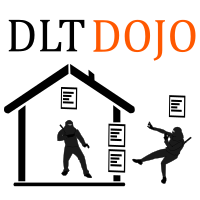
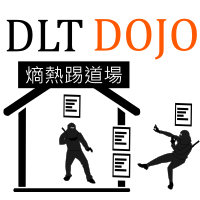
updated y12docker/dltdojo-ethgo:1.5.5.a0

Changed region(s): [[0.0, 0.3, 1.0, 0.96], [0.03, 0.09, 0.99, 0.3]]

diff --git a/dockerfiles/ethereumgo/index.js b/dockerfiles/ethereumgo/index.js
@@ -31,21 +31,25 @@ function rpcPost(method, params) {
     });
 }
 
-function getInfo() {
+function getInfo(debug) {
     var coinbase = web3.eth.coinbase;
     var balance = web3.eth.getBalance(coinbase)
         // var value = web3.fromWei('21000000000000', 'finney');
         // https://github.com/ethereum/web3.js/issues/388
         // https://github.com/ethereum/web3.js/blob/master/lib/web3/methods/personal.js
-    return {
-        netPeerCount: web3.net.peerCount,
+    var r = {
         ethGetBalance: balance,
         ethCoinbase: coinbase,
-        ethBlockNumber: web3.eth.blockNumber,
-        ethMining: web3.eth.mining,
         ethDefaultAccount: web3.eth.defaultAccount,
-        ether: web3.fromWei(balance, 'ether')
+        balanceEther: web3.fromWei(balance, 'ether')
     }
+    if(debug){
+        r.ethBlockNumber= web3.eth.blockNumber
+        r.netPeerCount= web3.net.peerCount
+        r.ethMining= web3.eth.mining
+        r.ethGetBlockPending= web3.eth.getBlock("pending")
+    }
+    return r
 }
 
 function recoverKeyFromAddress(datadir, address, password) {
@@ -55,20 +59,13 @@ function recoverKeyFromAddress(datadir, address, password) {
     var privateKey = keythereum.recover(password, keyObject)
     return {
         ko: keyObject,
-        key: privateKey
+        key: privateKey,
+        keyhex: privateKey.toString('hex')
     }
 }
 
 function cout(obj) {
     console.log(_.isString(obj) ? obj : JSON.stringify(obj, null, ' '))
-}
-
-function logResponse(err, response) {
-    if (err) {
-        console.log('err: ', JSON.stringify(err))
-    } else {
-        console.log('response: ', JSON.stringify(response))
-    }
 }
 
 require('yargs')
@@ -77,14 +74,25 @@ require('yargs')
         desc: 'json rpc interface',
         handler: (argv) => {
             //rpcPost(argv.method, argv.params)
-            clientRpc.request(argv.method, argv.params, logResponse);
+            clientRpc.request(argv.method, argv.params, function(err, resp) {
+                err ? console.log(JSON.stringify(err)) : console.log(JSON.stringify(resp))
+            });
         }
     })
     .command({
         command: 'info',
         desc: 'info',
         handler: (argv) => {
-            cout(getInfo())
+            cout(getInfo(argv.debug))
+        }
+    })
+    .command({
+        command: 'keyrecover <address> <password> [datadir]',
+        desc: 'keyrecover',
+        builder: (yargs) => yargs.default('datadir', '/root/.ethereum/devchain'),
+        handler: (argv) => {
+            var r = recoverKeyFromAddress(argv.datadir, argv.address, argv.password)
+            argv.debug ? cout(r) : console.log(r.keyhex)
         }
     })
     .demandCommand(1)

diff --git a/index.js b/index.js
@@ -98,6 +98,7 @@ EthereumGo.prototype.buildDojo = function(path, name, peers) {
 
 EthereumGo.prototype.buildDojoPeer = function() {
     var name = this.name
+    var imagename = 'y12docker/dltdojo-ethgo:1.5.5.a0'
     // bootnodes url IP address only. DNS name(evp0) are not allowed.
     // "tail -f /dev/null" keep evp running for all time
     var rpcopts = '--rpc --rpccorsdomain="*" --rpcaddr="0.0.0.0" --rpcapi "miner,admin,db,personal,eth,net,web3" --ipcdisable'
@@ -105,12 +106,12 @@ EthereumGo.prototype.buildDojoPeer = function() {
         version: '2',
         services: {
             evp: {
-                image: 'y12docker/dltdojo-ethgo:1.5.5',
+                image: imagename,
                 entrypoint: '/start.sh',
                 command: `--networkid=919717 ${rpcopts} --datadir=~/.ethereum/devchain --bootnodes="enode://288b97262895b1c7ec61cf314c2e2004407d0a5dc77566877aad1f2a36659c8b698f4b56fd06c4a0c0bf007b4cfb3e7122d907da3b005fa90e724441902eb19e@XXX:30303"`
             },
             bootnode: {
-                image: 'y12docker/dltdojo-ethgo:1.5.5',
+                image: imagename,
                 command: `--networkid=919717 ${rpcopts} --datadir=~/.ethereum/devchain --nodekeyhex=091bd6067cb4612df85d9c1ff85cc47f259ced4d4cd99816b14f35650f59c322`
             }
         }
@@ -157,13 +158,9 @@ function main() {
         .usage('Usage: $0 --path=[string] --name=[string] --peers=[num] --level=[num]')
         .demandOption(['path', 'name', 'peers'])
         .default('level', 1)
+        .default('path', '/tmp')
         .argv
         // console.log(argv)
-    if (argv.level == 1) {
-        var bc = new BitcoinCore()
-        bc.buildDojo(argv.path, argv.name, argv.peers)
-    }
-
     switch (argv.level) {
         case 1:
             var bc = new BitcoinCore()

diff --git a/level2/testlog.md b/level2/testlog.md
@@ -1,3 +1,88 @@
+## LOG0109_1
+
+```
+$ vp2cli rpc personal_newAccount vp2pass
+$ vp2cli rpc miner_start 1
+$ dc logs
+....
+evp1_1  | I0109 09:54:35.525132 core/blockchain.go:1047] imported 1 blocks,     0 txs (  0.000 Mg) in   4.985ms ( 0.000 Mg/s). #30 [6174e0bc…]
+evp1_1  | I0109 09:54:38.654495 core/blockchain.go:1047] imported 1 blocks,     0 txs (  0.000 Mg) in   5.147ms ( 0.000 Mg/s). #31 [55b0af02…]
+evp1_1  | I0109 09:54:40.465566 core/blockchain.go:1047] imported 1 blocks,     0 txs (  0.000 Mg) in   3.614ms ( 0.000 Mg/s). #32 [43cda26f…]
+evp1_1  | I0109 09:54:40.479025 core/blockchain.go:1047] imported 1 blocks,     0 txs (  0.000 Mg) in   3.990ms ( 0.000 Mg/s). #33 [d851785c…]
+evp1_1  | I0109 09:54:44.091722 core/blockchain.go:1047] imported 1 blocks,     0 txs (  0.000 Mg) in   5.196ms ( 0.000 Mg/s). #34 [32440ad1…]
+$ docker ps -s
+CONTAINER ID        IMAGE                           COMMAND                  CREATED             STATUS              PORTS                 NAMES               SIZE
+1d7cd14cd98e        y12docker/dltdojo-ethgo:1.5.5   "/start.sh --networki"   7 minutes ago       Up 7 minutes        8545/tcp, 30303/tcp   level2_evp1_4       2.512 MB (virtual 708.2 MB)
+9faec5d012cf        y12docker/dltdojo-ethgo:1.5.5   "/start.sh --networki"   7 minutes ago       Up 7 minutes        8545/tcp, 30303/tcp   level2_evp1_3       3.005 MB (virtual 708.7 MB)
+fcfe0293ef22        y12docker/dltdojo-ethgo:1.5.5   "/start.sh --networki"   7 minutes ago       Up 7 minutes        8545/tcp, 30303/tcp   level2_evp1_5       2.578 MB (virtual 708.3 MB)
+13bd9b1ad7af        y12docker/dltdojo-ethgo:1.5.5   "/start.sh --networki"   7 minutes ago       Up 7 minutes        8545/tcp, 30303/tcp   level2_evp1_2       1.076 GB (virtual 1.782 GB)
+ad822ae9b538        y12docker/dltdojo-ethgo:1.5.5   "/geth --networkid=91"   7 minutes ago       Up 7 minutes        8545/tcp, 30303/tcp   level2_evp0_1       5.263 MB (virtual 711 MB)
+40a16d554968        y12docker/dltdojo-ethgo:1.5.5   "/start.sh --networki"   7 minutes ago       Up 7 minutes        8545/tcp, 30303/tcp   level2_evp1_1       2.733 MB (virtual 708.4 MB)
+// evp1_2 with 1G DAG File
+$ vp2cli info
+{
+ "netPeerCount": 3,
+ "ethGetBalance": "1.725e+21",
+ "ethCoinbase": "0x1ab0ec767423e8f0bbae3c7ac7863e20efa1cc78",
+ "ethBlockNumber": 345,
+ "ethMining": true,
+ "ethGetBlockPending": {
+  "difficulty": "154855",
+  "extraData": "0xd783010505846765746887676f312e352e34856c696e7578",
+  "gasLimit": 95718562,
+  "gasUsed": 0,
+  "hash": null,
+  "logsBloom": null,
+  "miner": null,
[1 lines of base64/hex data omitted]
+  "nonce": null,
+  "number": 346,
[3 lines of base64/hex data omitted]
+  "size": 538,
[1 lines of base64/hex data omitted]
+  "timestamp": 1483927391,
+  "totalDifficulty": "0",
+  "transactions": [],
[1 lines of base64/hex data omitted]
+  "uncles": []
+ },
+ "ether": "1725"
+}
+$ vp1cli info
+{
+ "netPeerCount": 6,
+ "ethGetBalance": "0",
+ "ethCoinbase": "0xed3efecca8b88d5bec937e09f2294fbc3f304989",
+ "ethBlockNumber": 347,
+ "ethMining": false,
+ "ethGetBlockPending": {
+  "difficulty": "155005",
+  "extraData": "0xd783010505846765746887676f312e352e34856c696e7578",
+  "gasLimit": 95531706,
+  "gasUsed": 0,
+  "hash": null,
+  "logsBloom": null,
+  "miner": null,
[1 lines of base64/hex data omitted]
+  "nonce": null,
+  "number": 348,
[3 lines of base64/hex data omitted]
+  "size": 538,
[1 lines of base64/hex data omitted]
+  "timestamp": 1483927396,
+  "totalDifficulty": "0",
+  "transactions": [],
[1 lines of base64/hex data omitted]
+  "uncles": []
+ },
+ "ether": "0"
+}
+```
+
 ## LOG0107_4
 
 ```
@@ -67,7 +152,6 @@ $ vp1 node keyrecover.js --datadir=/root/.ethereum/devchain --address=8bef3b5260
  },
[1 lines of base64/hex data omitted]
 }
-
 ```
 
 ## LOG0107_2

diff --git a/level2/README.md b/level2/README.md
@@ -1,11 +1,69 @@
-# T1
+# Level2 ETH轉帳任務
+
+環境設置好之後有vp0-vp6共計6個節點可操作，下面用vp1為主，由於ETH挖礦需要下載約1G的資料，這裡只以vp1為採礦點，其他節點需要從vp1帳號取得ETH。
+
+# T1 取得地址
+
+設定vp1帳號密碼vp1pass取得地址。
+
+```
+$ vp1cli rpc personal_newAccount vp1pass
+response:  {"jsonrpc":"2.0","id":"dc2023e4-172e-475e-964d-ea5568e0f6f9","result":"0xeb8850832535c05bc3e8ec37b1acd4073d4161fb"}
+```
+
+# T2 取得金鑰
+
+注意地址需要去除0x。
+
+```
+$ vp1cli keyrecover eb8850832535c05bc3e8ec37b1acd4073d4161fb vp1pass
[1 lines of base64/hex data omitted]
+
+```
+
+# T3 查詢餘額
+```
+$ vp1cli info
+{
+ "ethGetBalance": "0",
+ "ethCoinbase": "0x8a3ce4e4eb17d147b8a2a625a7b58934f3cb3fcf",
+ "balanceEther": "0"
+}
+
+```
+
+# T4 挖礦取得ETH
+
+挖礦只選vp1點進行，啟動挖礦需等候約1G的挖礦必備檔案下載，等候時間與頻寬有關，第一個區塊應該可在數十分鐘內完成。
+
+```
+$ vp1cli rpc miner_start
+{"jsonrpc":"2.0","id":"02600afd-6ac0-4e0b-ba7c-165e6be4ffae","result":true}
+
+.......
+
+$ vp1cli info
+{
+ "ethGetBalance": "210937500000000000000",
+ "ethCoinbase": "0x8a3ce4e4eb17d147b8a2a625a7b58934f3cb3fcf",
+ "balanceEther": "210.9375"
+}
+```
+
+# T5 轉出10個
+
+轉帳需要對方地址，如無人練習可使用vp0節點重複T1取得地址。這裡假設對方地址為mgUMfoXL57yH9s1WjwB3CE3MeDWZNxzexU，轉完帳必須有人執行產出區塊對方才能收到一個確認，
+
+# T6 收到5個
+
+該任務需要提交地址請對方協助，如無練習對手可使用vp0節點。完成後vp1會收到5個以及新熟成50個，所以餘額增加55個。
 
 # SETUP
 
 ```
 $ mkdir level2 && cd level2
-$ docker run -v $(pwd):/tmp y12docker/dltdojo:0.0.3 --path=/tmp --name=level2 --peers=6 --level=2
-$ source level1-alias.sh
-$ dc up -d
+$ docker run -v $(pwd):/tmp y12docker/dltdojo:0.0.4 --name level2 --peers 6 --level 2
+$ source level2-alias.sh
+$ dcup
 $ dc stop && dc rm
 ```

diff --git a/dockerfiles/ethereumgo/testlog.md b/dockerfiles/ethereumgo/testlog.md
@@ -1,5 +1,21 @@
 ## LOG0108_3
 
+```
+$ docker build -t y12docker/dltdojo-ethgo:1.5.5.a0 .
+$ docker run y12docker/dltdojo-ethgo:1.5.5.a0 version
+Geth
+Version: 1.5.5-stable
+Git Commit: ff07d54843ea7ed9997c420d216b4c007f9c80c3
+Protocol Versions: [63 62]
+Network Id: 1
+Go Version: go1.5.4
+OS: linux
+GOPATH=
+GOROOT=/usr/lib/go
+$ docker run -it --entrypoint=bash y12docker/dltdojo-ethgo:1.5.5.a0
+$
+```
+
 Transaction propagation issue on private test net since geth 1.4.6 · Issue #2769 · ethereum/go-ethereum
 
 https://github.com/ethereum/go-ethereum/issues/2769
@@ -19,7 +35,7 @@ evp1_1  | I0108 17:26:37.868095 vendor/github.com/ethereum/ethash/ethash.go:291]
 evp1_1  | I0108 17:26:37.868132 vendor/github.com/ethereum/ethash/ethash.go:276] Done generating DAG for epoch 0, it took 7.047686ms
 evp1_1  | I0108 17:26:43.386157 miner/unconfirmed.go:83] 🔨  mined potential block #1 [04a576d3…], waiting for 5 blocks to confirm
 evp1_1  | I0108 17:26:43.386937 miner/worker.go:516] commit new work on block 2 with 0 txs & 0 uncles. Took 515.995µs
-$ vp1cli info
+$ vp1cli info --debug
 {
  "netPeerCount": 0,
  "ethGetBalance": "25000000000000000000",
@@ -32,7 +48,7 @@ $ vp1cli info
 // without --dev
 ```
 $ vp1cli rpc personal_newAccount vp1pass
-$ vp1cli info
+$ vp1cli info --debug
 {
  "netPeerCount": 4,
  "ethGetBalance": "0",

diff --git a/README.md b/README.md
@@ -1,8 +1,8 @@
-# DLTDOJO分散帳本道場
+# DLTDOJO 熵熱踢道場
 
 ![DLTDOJO](dltdojo.png "DLT DOJO")
 
-分散帳本道場 Distributed Ledger Technology Dojo (DLTDOJO) 提供快速練習驗證分散式帳本區塊鏈概念的環境，道場設計為不需背景知識都可練習實做。
+熵熱踢道場 Distributed Ledger Technology Dojo (DLTDOJO) 提供快速練習驗證分散式帳本區塊鏈概念的環境，道場設計為不需背景知識都可練習實做。
 
 # SETUP
 TODO
@@ -11,17 +11,11 @@ TODO
 
 ## Level1 Bitcoin 比特幣轉帳
 
-https://github.com/y12studio/dltdojo/tree/master/level1
-
 ## Level2 Ethereum 轉帳
-
-https://github.com/y12studio/dltdojo/tree/master/level2
 
 ## Level3 Hyperledger Fabric 轉帳
 
-https://github.com/y12studio/dltdojo/tree/master/level3
-
-# REFERENCES
+# 參考連結
 
 https://github.com/bitcoin/bitcoin
 

diff --git a/dockerfiles/dltdojo/README.md b/dockerfiles/dltdojo/README.md
@@ -1,5 +1,14 @@
 # LOG
 
+## LOG0109_1
+
+```
+$ node index.js --level 2 --path level2 --name level2 --peers 6
+$ docker build -t y12docker/dltdojo:0.0.4 .
+$ docker run -v $(pwd):/tmp y12docker/dltdojo:0.0.4 --level 2 --name level2 --peers 6
+$ 
+```
+
 ## LOG0107
 
 ```
@@ -14,7 +23,6 @@ $ vp1curl personal_newAccount '"vp1pass"'
   "id": 67,
   "result": "0xc1d8a6b9ce958f916d81e81084c37085161b3254"
 }
-TODO
 ```
 
 ## LOG0106 0.0.2

diff --git a/dockerfiles/ethereumgo/README.md b/dockerfiles/ethereumgo/README.md
@@ -15,9 +15,3 @@ https://medium.com/@andrenit/buildind-an-ethereum-playground-with-docker-part-2-
 Building an Ethereum Environment with Docker
 
 http://blog.carl.pro/2016/06/building-an-ethereum-environment-with-docker/
-
-```
-$ docker build -t y12docker/dltdojo-ethgo:1.5.5 .
-$ docker run -it --entrypoint=bash y12docker/dltdojo-ethgo:1.5.5
-$ docker run y12docker/dltdojo-ethgo:1.5.5 -h
-```

diff --git a/level1/README.md b/level1/README.md
@@ -1,4 +1,4 @@
-# Level1 任務
+# Level1 比特幣轉帳
 
 環境設置好之後有vp0-vp3共計四個節點可操作，下面用vp1為主。
 
